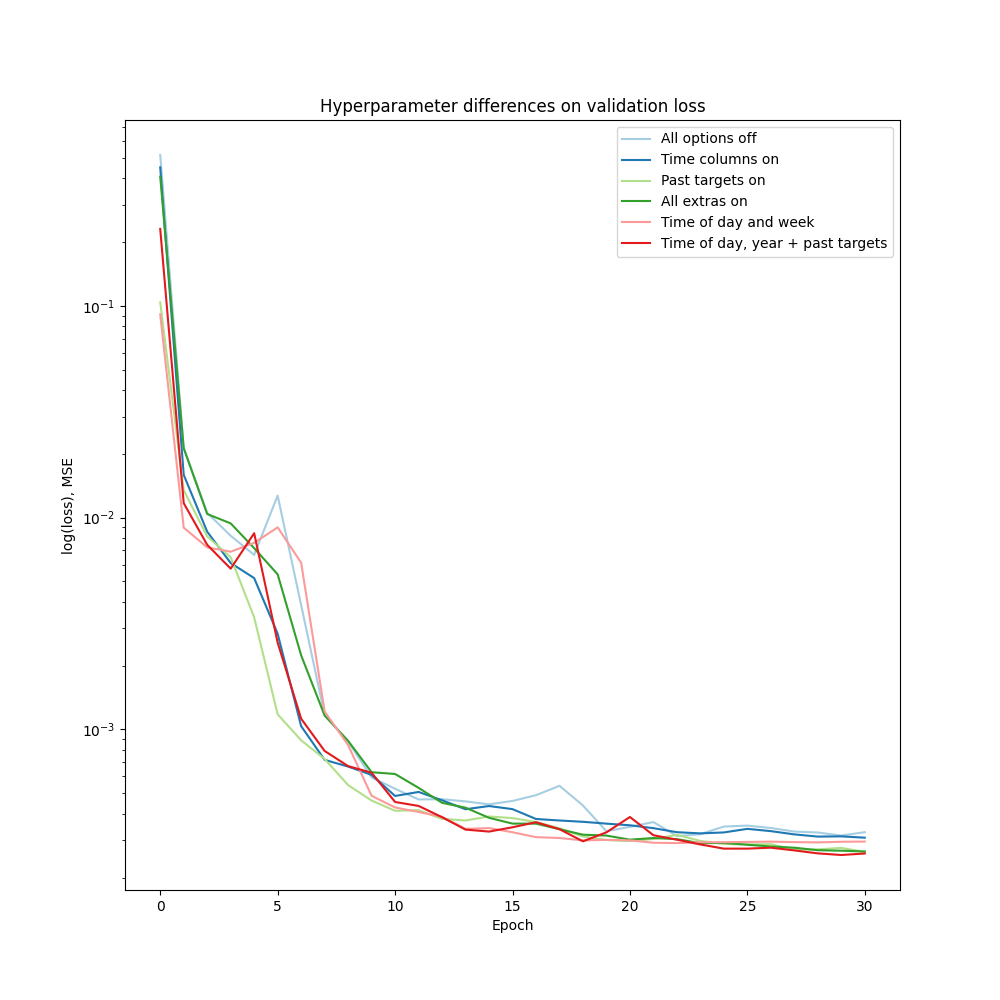
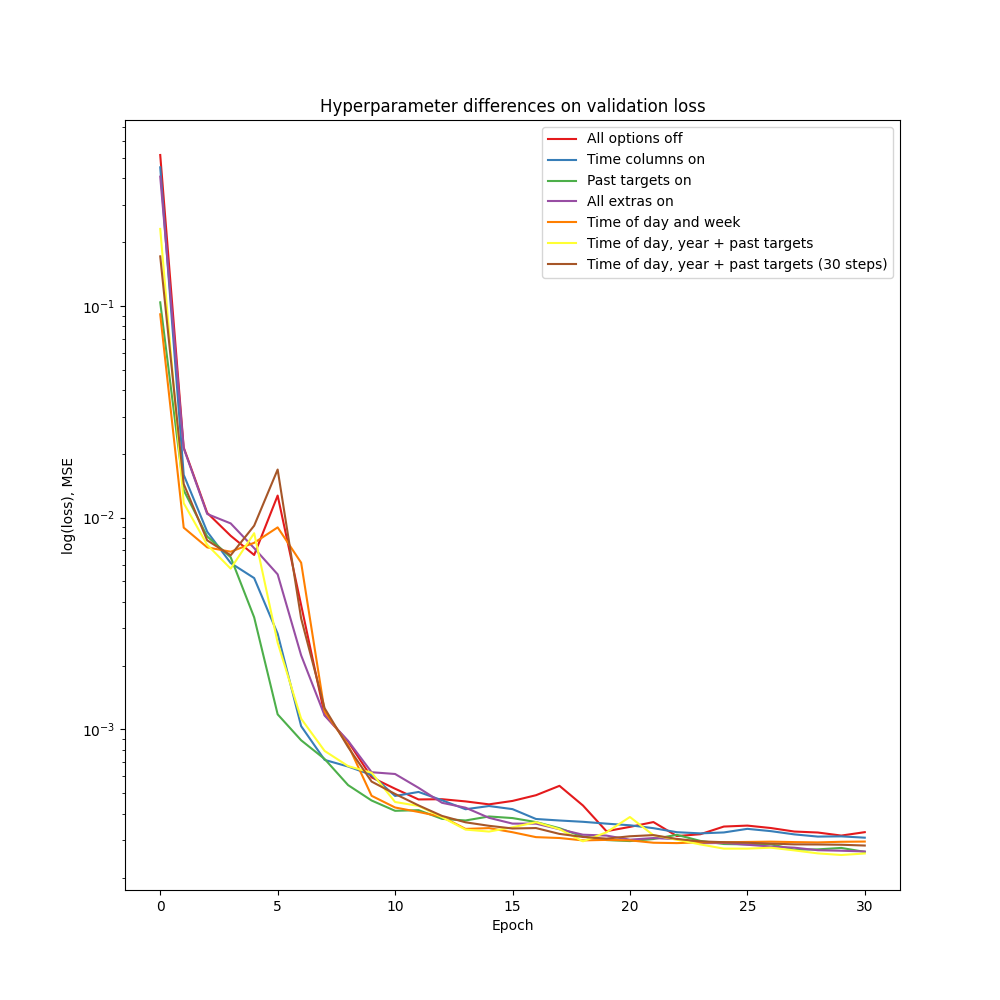
Add newly trained longer-memory model

Changed region(s): [[0.155, 0.155, 0.868, 0.868], [0.589, 0.124, 0.899, 0.279]]

diff --git a/Project 3 - Imbalance forecasting/exploration/plot_model_differences.py b/Project 3 - Imbalance forecasting/exploration/plot_model_differences.py
@@ -9,7 +9,7 @@ def plot_losses(loss_list: list):
     ax.set_ylabel("log(loss), MSE")
     ax.set_xlabel("Epoch")
 
-    colormap = plt.get_cmap("Paired").colors
+    colormap = plt.get_cmap("Set1").colors
 
     for i, (model_name, loss_location) in enumerate(loss_list):
         with open(loss_location, "r") as file:
@@ -29,6 +29,7 @@ if __name__ == "__main__":
         ("Past targets on", "models/losses/3_hanging_y.losses"),
         ("All extras on", "models/losses/4_all_on.losses"),
         ("Time of day and week", "models/losses/5_day_week.losses"),
-        ("Time of day, year + past targets", "models/losses/6_day_year_hanging.losses")
+        ("Time of day, year + past targets", "models/losses/6_day_year_hanging.losses"),
+        ("Time of day, year + past targets (30 steps)", "models/losses/7_day_year_targets_more_memory.losses"),
     ]
     plot_losses(loss_list)
